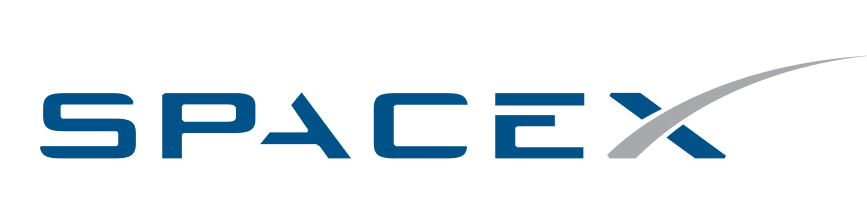
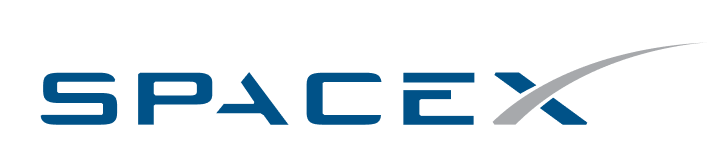
added the detail card page

diff --git a/src/components/DetailCard.jsx b/src/components/DetailCard.jsx
@@ -1,0 +1,107 @@
+import React from 'react';
+import { X, ExternalLink, Share, Eye } from 'lucide-react';
+
+const DetailCard = ({ launch, onClose }) => {
+
+    return (
+        <div className="fixed inset-0 backdrop-blur-xs bg-opacity-40 flex items-center justify-center p-4 z-50">
+            <div className="bg-white rounded-lg shadow-xl max-w-md w-full max-h-[90vh] overflow-y-auto">
+                {/* Header */}
+                <div className="flex items-start justify-between px-3 py-2">
+                    <div className="flex items-start space-x-3">
+                        <div className="w-20 h-20 bg-blue-900 rounded-lg flex items-center justify-center">
+                            <div className="w-8 h-8 bg-white rounded-full flex items-center justify-center">
+                                <div className="w-4 h-4 bg-blue-500 rounded-full"></div>
+                            </div>
+                        </div>
+                        <div>
+                            <div className="flex items-center space-x-2">
+                                <h2 className="text-lg font-semibold text-gray-900">{launch.mission_name}</h2>
+                                <span className="px-2 py-1 bg-green-100 text-green-800 text-xs font-medium rounded-full">
+                                    {launch.status}
+                                </span>
+                            </div>
+                            <div className="mt-1">
+                                <span className="text-sm text-gray-500">Falcon 9</span>
+                            </div>
+                            <div className="flex items-center space-x-4 mt-2">
+                                <button className="flex items-center space-x-1 text-gray-600 hover:text-gray-800">
+                                    <ExternalLink className="w-4 h-4" />
+                                </button>
+                                <button className="flex items-center space-x-1 text-gray-600 hover:text-gray-800">
+                                    <Share className="w-4 h-4" />
+                                </button>
+                                <button className="flex items-center space-x-1 text-gray-600 hover:text-gray-800">
+                                    <Eye className="w-4 h-4" />
+                                </button>
+                            </div>
+                        </div>
+                    </div>
+                    <button
+                        className="p-1 hover:bg-gray-100 rounded"
+                        onClick={onClose}
+                    >
+                        <X className="w-5 h-5 text-gray-500" />
+                    </button>
+                </div>
+
+                {/* Content */}
+                <div className="p-4">
+                    <p className="text-sm text-gray-700 mb-4 leading-relaxed pb-2">
+                        Mission details for {launch.mission_name} launched on {launch.launch_date} from {launch.launch_site}.  Mission details for {launch.mission} launched on {launch.launched} from {launch.location}.  Mission details for {launch.mission} launched on {launch.launched} from {launch.location}.
+                    </p>
+
+                    {/* Details List */}
+                    <div className="space-y-3">
+                        <div className="flex justify-between items-center py-2 border-b border-gray-200">
+                            <span className="text-sm text-gray-600">Flight Number</span>
+                            <span className="text-sm text-gray-900 font-medium">{launch.id}</span>
+                        </div>
+
+                        <div className="flex justify-between items-center py-2 border-b border-gray-200">
+                            <span className="text-sm text-gray-600">Mission Name</span>
+                            <span className="text-sm text-gray-900 font-medium">{launch.mission_name}</span>
+                        </div>
+
+                        <div className="flex justify-between items-center py-2 border-b border-gray-200">
+                            <span className="text-sm text-gray-600">Rocket Type</span>
+                            <span className="text-sm text-gray-900 font-medium">{launch.rocket_type}</span>
+                        </div>
+
+                        <div className="flex justify-between items-center py-2 border-b border-gray-200">
+                            <span className="text-sm text-gray-600">Rocket Name</span>
+                            <span className="text-sm text-gray-900 font-medium">{launch.rocket_name}</span>
+                        </div>
+
+                        <div className="flex justify-between items-center py-2 border-b border-gray-200">
+                            <span className="text-sm text-gray-600">Nationality</span>
+                            <span className="text-sm text-gray-900 font-medium">{launch.nationality}</span>
+                        </div>
+
+                        <div className="flex justify-between items-center py-2 border-b border-gray-200">
+                            <span className="text-sm text-gray-600">Launch Date</span>
+                            <span className="text-sm text-gray-900 font-medium">{launch.launch_date}</span>
+                        </div>
+
+                        <div className="flex justify-between items-center py-2 border-b border-gray-200">
+                            <span className="text-sm text-gray-600">Payload Type</span>
+                            <span className="text-sm text-gray-900 font-medium">{launch.payload_type}</span>
+                        </div>
+
+                        <div className="flex justify-between items-center py-2 border-b border-gray-200">
+                            <span className="text-sm text-gray-600">Orbit</span>
+                            <span className="text-sm text-gray-900 font-medium">{launch.orbit}</span>
+                        </div>
+
+                        <div className="flex justify-between items-center py-2">
+                            <span className="text-sm text-gray-600">Launch Site</span>
+                            <span className="text-sm text-gray-900 font-medium">{launch.launch_site}</span>
+                        </div>
+                    </div>
+                </div>
+            </div>
+        </div>
+    );
+};
+
+export default DetailCard;

diff --git a/src/App.jsx b/src/App.jsx
@@ -1,11 +1,14 @@
 import './index.css'
+import SpaceXTable from './components/SpaceXTable'
+import Header from './components/Header'
 
 function App() {
 
   return (
     <>
       <div>
-        Hello World
+        <Header />
+        <SpaceXTable />
       </div>
     </>
   )

diff --git a/src/components/Header.jsx b/src/components/Header.jsx
@@ -1,0 +1,11 @@
+import spaceX from "../assets/space-x.png";
+
+const Header = () => {
+  return (
+    <div className="flex justify-center items-center">
+      <img src={spaceX} alt="SpaceX" className="h-20 w-auto" />
+    </div>
+  );
+};
+
+export default Header;
